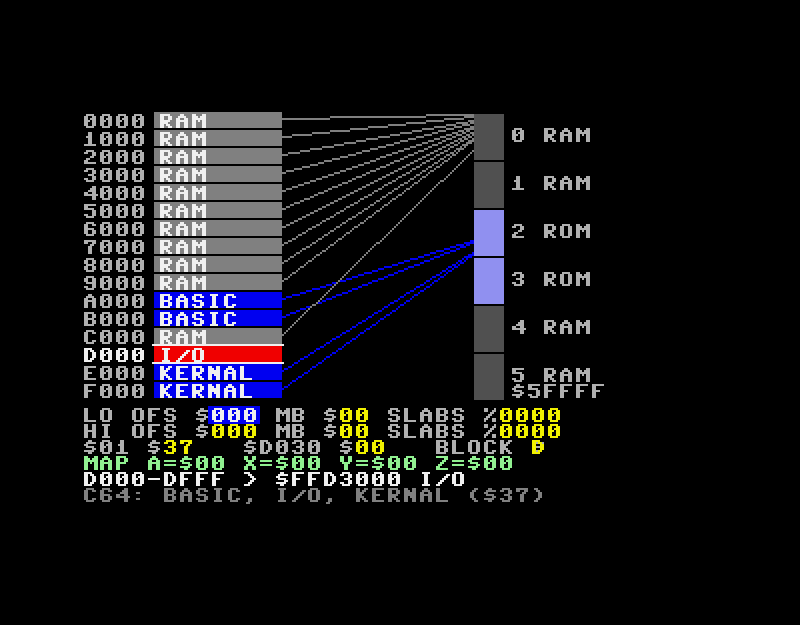
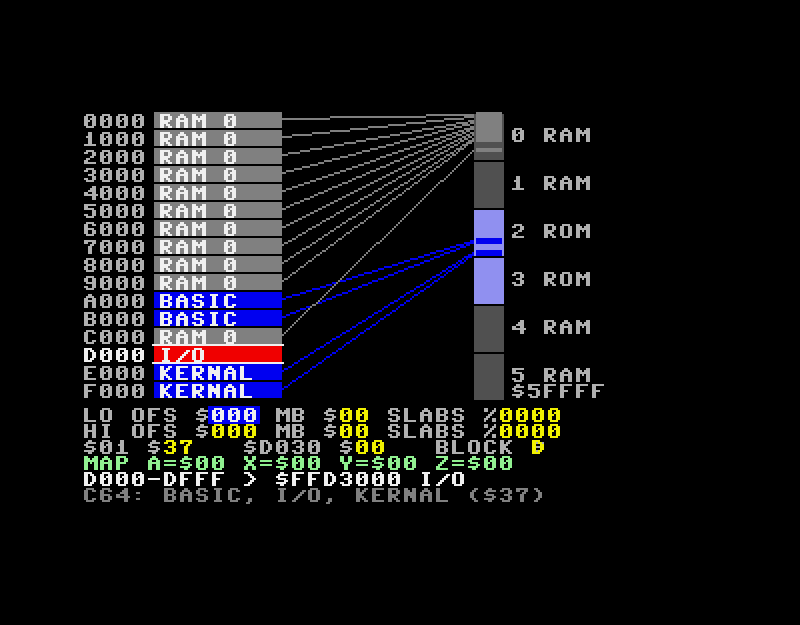
map_decode: chip RAM labelled with its bank, each block's source marked on the ruler, a hint for an offset no slab uses, a bank 1 preset
Moved into bank 1 the lines ended on the bank 0 / 1 boundary and every
chip RAM block read RAM, so bank 1 could not be seen.

diff --git a/examples/c/map_decode/main.c b/examples/c/map_decode/main.c
@@ -11,11 +11,15 @@
  * You edit the values; nothing is actually remapped. The program decodes
  * them for each 4 KB block and draws (TGI, 320x200):
  *   - the CPU's 64 KB as a bar of 16 blocks, coloured by what is there
- *     (RAM, moved RAM, a C64 ROM, a C65 ROM, the character ROM, I/O),
+ *     (RAM, moved RAM, a C64 ROM, a C65 ROM, the character ROM, I/O; chip
+ *     RAM labelled with its bank),
  *   - the first 384 KB of chip RAM (banks 0-5, the ROMs in banks 2-3) with
- *     a line from each block to where it reads from,
+ *     where each block reads from marked in its colour and a line to it,
  *   - the values, the A / X / Y / Z a MAP needs for them, and the selected
  *     block's 28-bit address.
+ *
+ * A MAP offset moves only the 8 KB slabs whose bit is set (SLABS): bank 1
+ * at $0000-$7FFF is LO OFS $100 with SLABS %1111.
  *
  * Keys: CRSR up / down chooses a value, CRSR left / right or + / - changes
  * it (the offsets by 8 KB), 0-9 and A-F type it in hex, P steps through the
@@ -152,6 +156,7 @@ static const struct preset presets[] = {
     { "The Book's MAP: $10000, $48000", { 0x100, 0x480, 0x1, 0x3, 0, 0, 0x35, 0 } },
     { "Ethernet buffer at $6800", { 0xD80, 0, 0x8, 0, 0xFF, 0, 0x35, 0 } },
     { "Bank 4 at $8000-$BFFF", { 0, 0x380, 0, 0x3, 0, 0, 0x35, 0 } },
+    { "Bank 1 at $0000-$7FFF", { 0x100, 0, 0xF, 0, 0, 0, 0x35, 0 } },
 };
 #define N_PRESETS (sizeof presets / sizeof presets[0])
 
@@ -230,6 +235,7 @@ static void set_field(unsigned char f, unsigned int v) {
 #define RULER_W 14
 
 /* a label for a block in the bar (at most 7 characters) */
+static char ram_name[] = "RAM 0";
 static const char *short_name(const struct block *k) {
     if (k->kind == K_IO) return "I/O";
     if (k->kind == K_CHAR) return "CHARSET";
@@ -242,7 +248,10 @@ static const char *short_name(const struct block *k) {
     if (k->phys >= 0xFF80000UL && k->phys < 0xFF88000UL) return "COLOUR";
     if (k->phys >= 0x8000000UL && k->phys < 0x8800000UL) return "ATTIC";
     if (k->phys >= 0xFFD0000UL && k->phys < 0xFFE0000UL) return "IO SPC";
-    if (k->phys < 0x60000UL) return "RAM";
+    if (k->phys < 0x60000UL) {
+        ram_name[4] = '0' + (unsigned char)(k->phys >> 16);   /* (its bank) */
+        return ram_name;
+    }
     return "-";
 }
 
@@ -300,11 +309,15 @@ static void draw(void) {
         tgi_bar(BAR_X, y, BAR_X + BAR_W - 1, y + ROW_H - 2);
         tgi_setcolor(TGI_COLOR_WHITE);
         tgi_outtextxy(BAR_X + 2, y + 1, short_name(&k));
-        /* where it reads from, when that is in the first 384 KB */
+        /* where it reads from, when that is in the first 384 KB: marked on
+         * the ruler in the block's colour, the line to the mark's middle */
         if (k.phys < 0x60000UL) {
             unsigned int unit = (unsigned int)(k.phys >> 12);
+            unsigned char m = TOP + unit + (unit >> 1);
+            tgi_setcolor(kind_colour[k.kind]);
+            tgi_bar(RULER_X + 1, m, RULER_X + RULER_W - 1, m + 1);
             tgi_setcolor(b == row ? TGI_COLOR_WHITE : kind_colour[k.kind]);
-            tgi_line(BAR_X + BAR_W, y + ROW_H / 2 - 1, RULER_X - 1, TOP + unit + (unit >> 1) + 1);
+            tgi_line(BAR_X + BAR_W, y + ROW_H / 2 - 1, RULER_X - 1, m + 1);
         }
     }
     /* the chosen block framed */
@@ -349,6 +362,10 @@ static void draw(void) {
     if (cfg.lo_mb || cfg.hi_mb) {
         put("FIRST MAP A=$"); hex(cfg.lo_mb, 2); put(" X=$0F Y=$"); hex(cfg.hi_mb, 2); put(" Z=$0F");
         text_at(192, TGI_COLOR_LIGHTGREEN);
+    } else if ((cfg.lo_off && !cfg.lo_en) || (cfg.hi_off && !cfg.hi_en)) {
+        /* (an offset moves nothing until a slab uses it) */
+        put("An offset moves only the SLABS set");
+        text_at(192, TGI_COLOR_ORANGE);
     } else {
         put(presets[preset].name);
         text_at(192, TGI_COLOR_GRAY2);
@@ -407,9 +424,19 @@ int main(void) {
     draw();
     OUT[7] = tgi_getpixel(BAR_X + BAR_W - 2, TOP + 8 * ROW_H + 1) == TGI_COLOR_GREEN &&
              tgi_getpixel(BAR_X + BAR_W - 2, TOP + 0xE * ROW_H + 1) == TGI_COLOR_GRAY2 &&
-             tgi_getpixel(BAR_X + BAR_W - 2, TOP + 0xD * ROW_H + 1) == TGI_COLOR_RED;
+             tgi_getpixel(BAR_X + BAR_W - 2, TOP + 0xD * ROW_H + 1) == TGI_COLOR_RED &&
+             tgi_getpixel(RULER_X + 2, TOP + 0x40 + 0x20) == TGI_COLOR_GREEN &&    /* $40000 marked */
+             tgi_getpixel(RULER_X + 2, TOP + 0x10 + 0x08 + 4) == TGI_COLOR_GRAY1;  /* bank 1 not */
+    /* bank 1 at $0000-$7FFF: labelled with its bank and marked in bank 1 */
+    use(8);
+    OUT[8] = is(0x0, K_MAPPED, 0x10000UL) && is(0x7, K_MAPPED, 0x17000UL) && is(0x8, K_RAM, 0x8000) &&
+             short_name(&(struct block){ 0x17000UL, K_MAPPED })[4] == '1';
+    preset = 8;
+    draw();
+    OUT[8] = OUT[8] && tgi_getpixel(RULER_X + 2, TOP + 0x10 + 0x08) == TGI_COLOR_GREEN &&
+             tgi_getpixel(RULER_X + 2, TOP + 0x17 + 0x0B) == TGI_COLOR_GREEN;
     tgi_unload();
-    OUT[8] = 0xAA;
+    OUT[9] = 0xAA;
     return 0;
 }
 #else

diff --git a/doc/examples/README.md b/doc/examples/README.md
@@ -247,15 +247,18 @@ VIC-III's `$D030` ROM bits (C65 ROM at `$8000`, `$A000`, `$C000`, `$E000`),
 and I/O at `$D000` above them all. You edit the MAP offsets, slabs and
 megabytes, `$01` and `$D030` (nothing is actually remapped); the program
 decodes each 4 KB block and draws the CPU's 64 KB as a bar coloured by what
-is there, the first 384 KB of chip RAM (the ROMs in banks 2-3) with a line
-from each block to where it reads from, the A / X / Y / Z a MAP needs (and
+is there (chip RAM labelled with its bank: `RAM 1`), the first 384 KB of chip
+RAM (the ROMs in banks 2-3) with where each block reads from marked in its
+colour and a line to it, the A / X / Y / Z a MAP needs (and
 the first MAP that sets a megabyte), and the chosen block's 28-bit address
 and what is there. Presets: the C64's `$37`, `$34` and `$33`, a cc45
 program's `$35`, the C65 ROMs by `$D030`, the Book's MAP example and its
-Ethernet buffer at `$6800`, bank 4 at `$8000`. Keys: CRSR up / down chooses
+Ethernet buffer at `$6800`, bank 4 at `$8000`, bank 1 at `$0000`-`$7FFF`
+(an offset moves only the slabs whose bit is set: the program says so when
+one is set and no slab uses it). Keys: CRSR up / down chooses
 a value, CRSR left / right or + / - changes it, 0-9 / A-F type it in hex, P
 the next preset, Q quits. `make check` builds a test of the decoder and the
-drawing (8 checks at `$C0C0`) and one that runs the editor by keys pressed
+drawing (9 checks at `$C0C0`) and one that runs the editor by keys pressed
 through the virtual key registers (`$D615`: through the keyboard scanner, as
 typed), then checks the values and the screen (4 checks).
 
